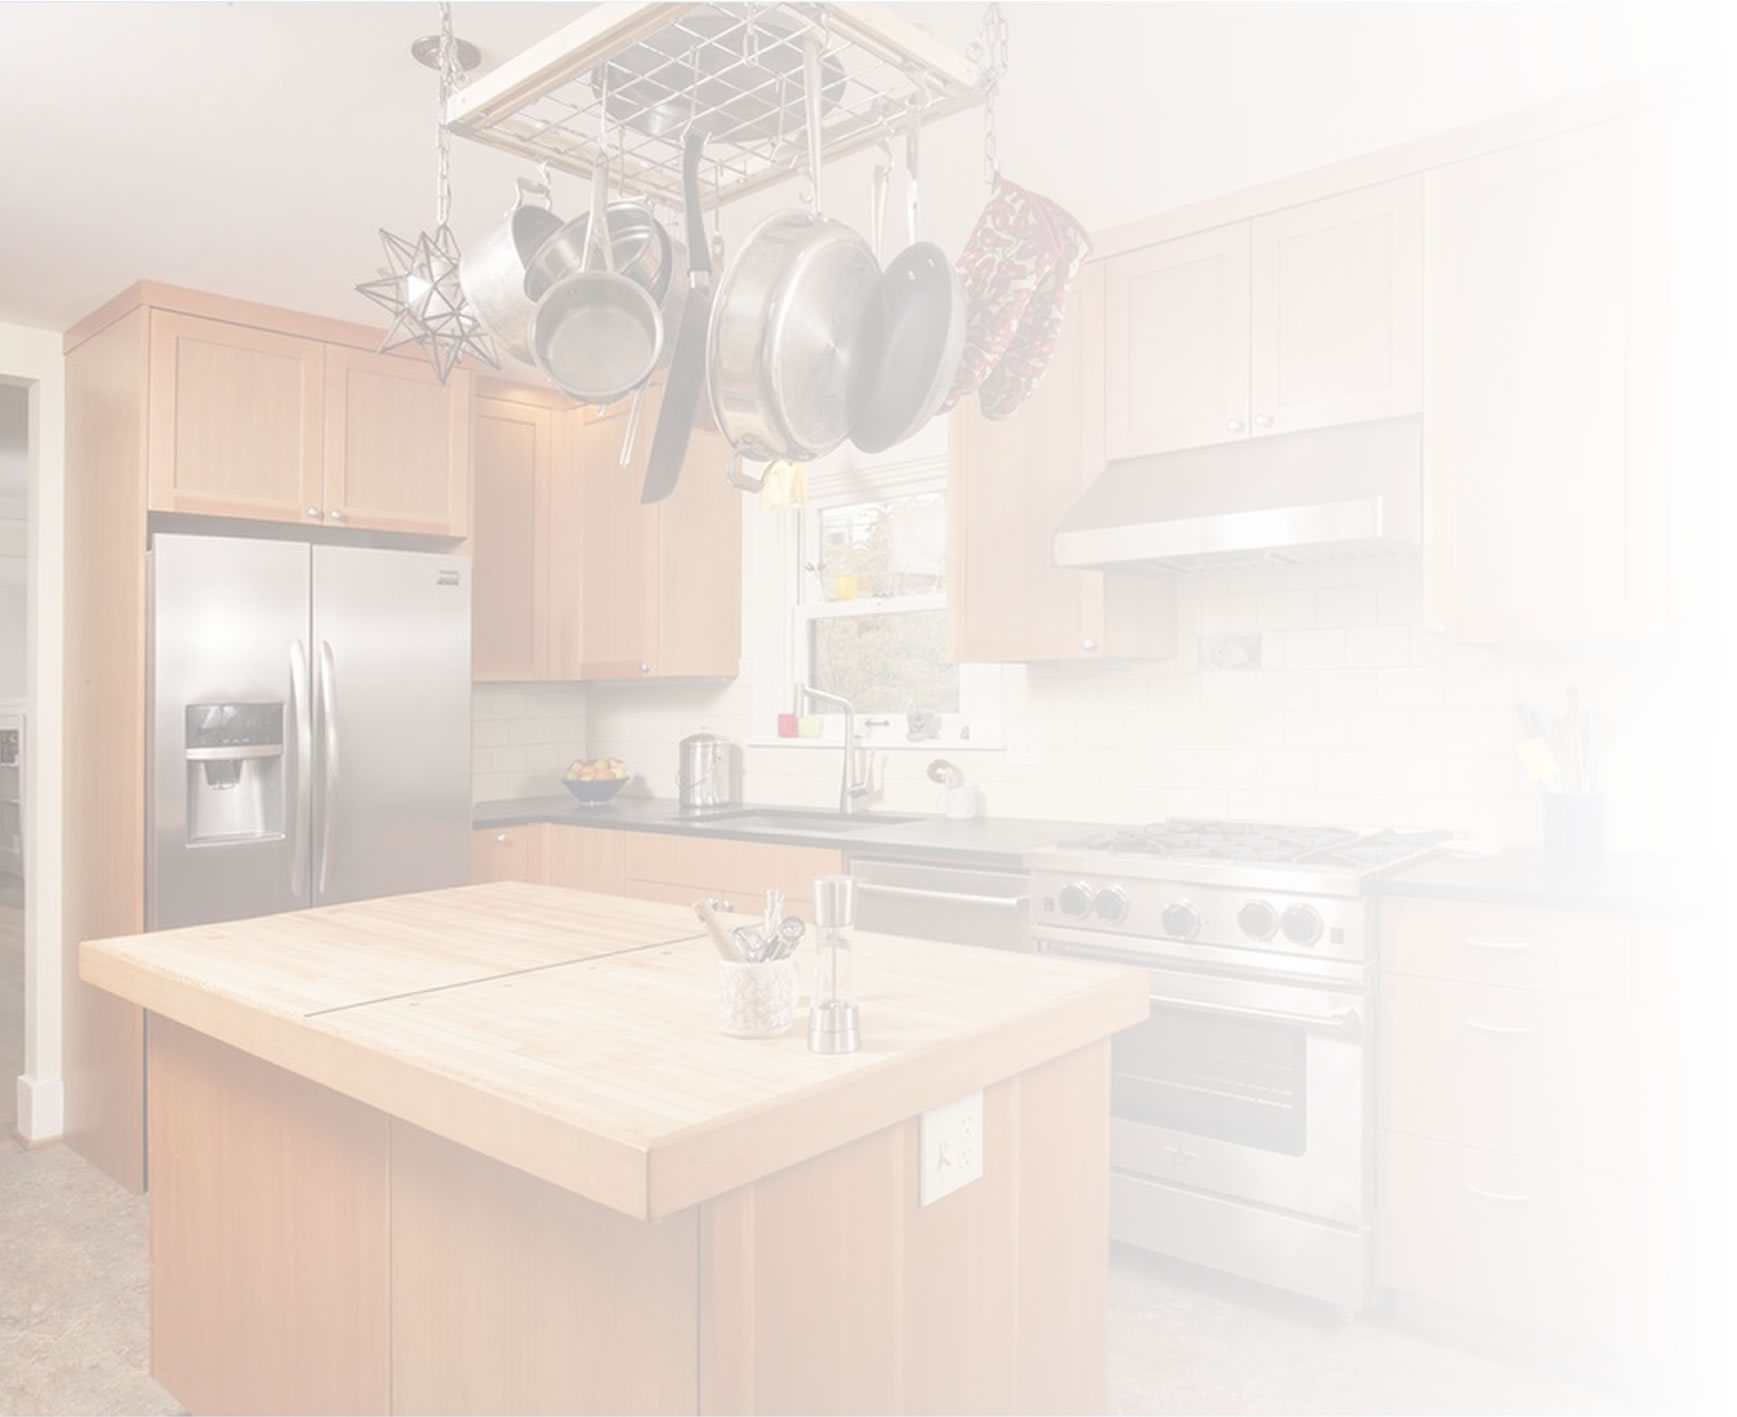
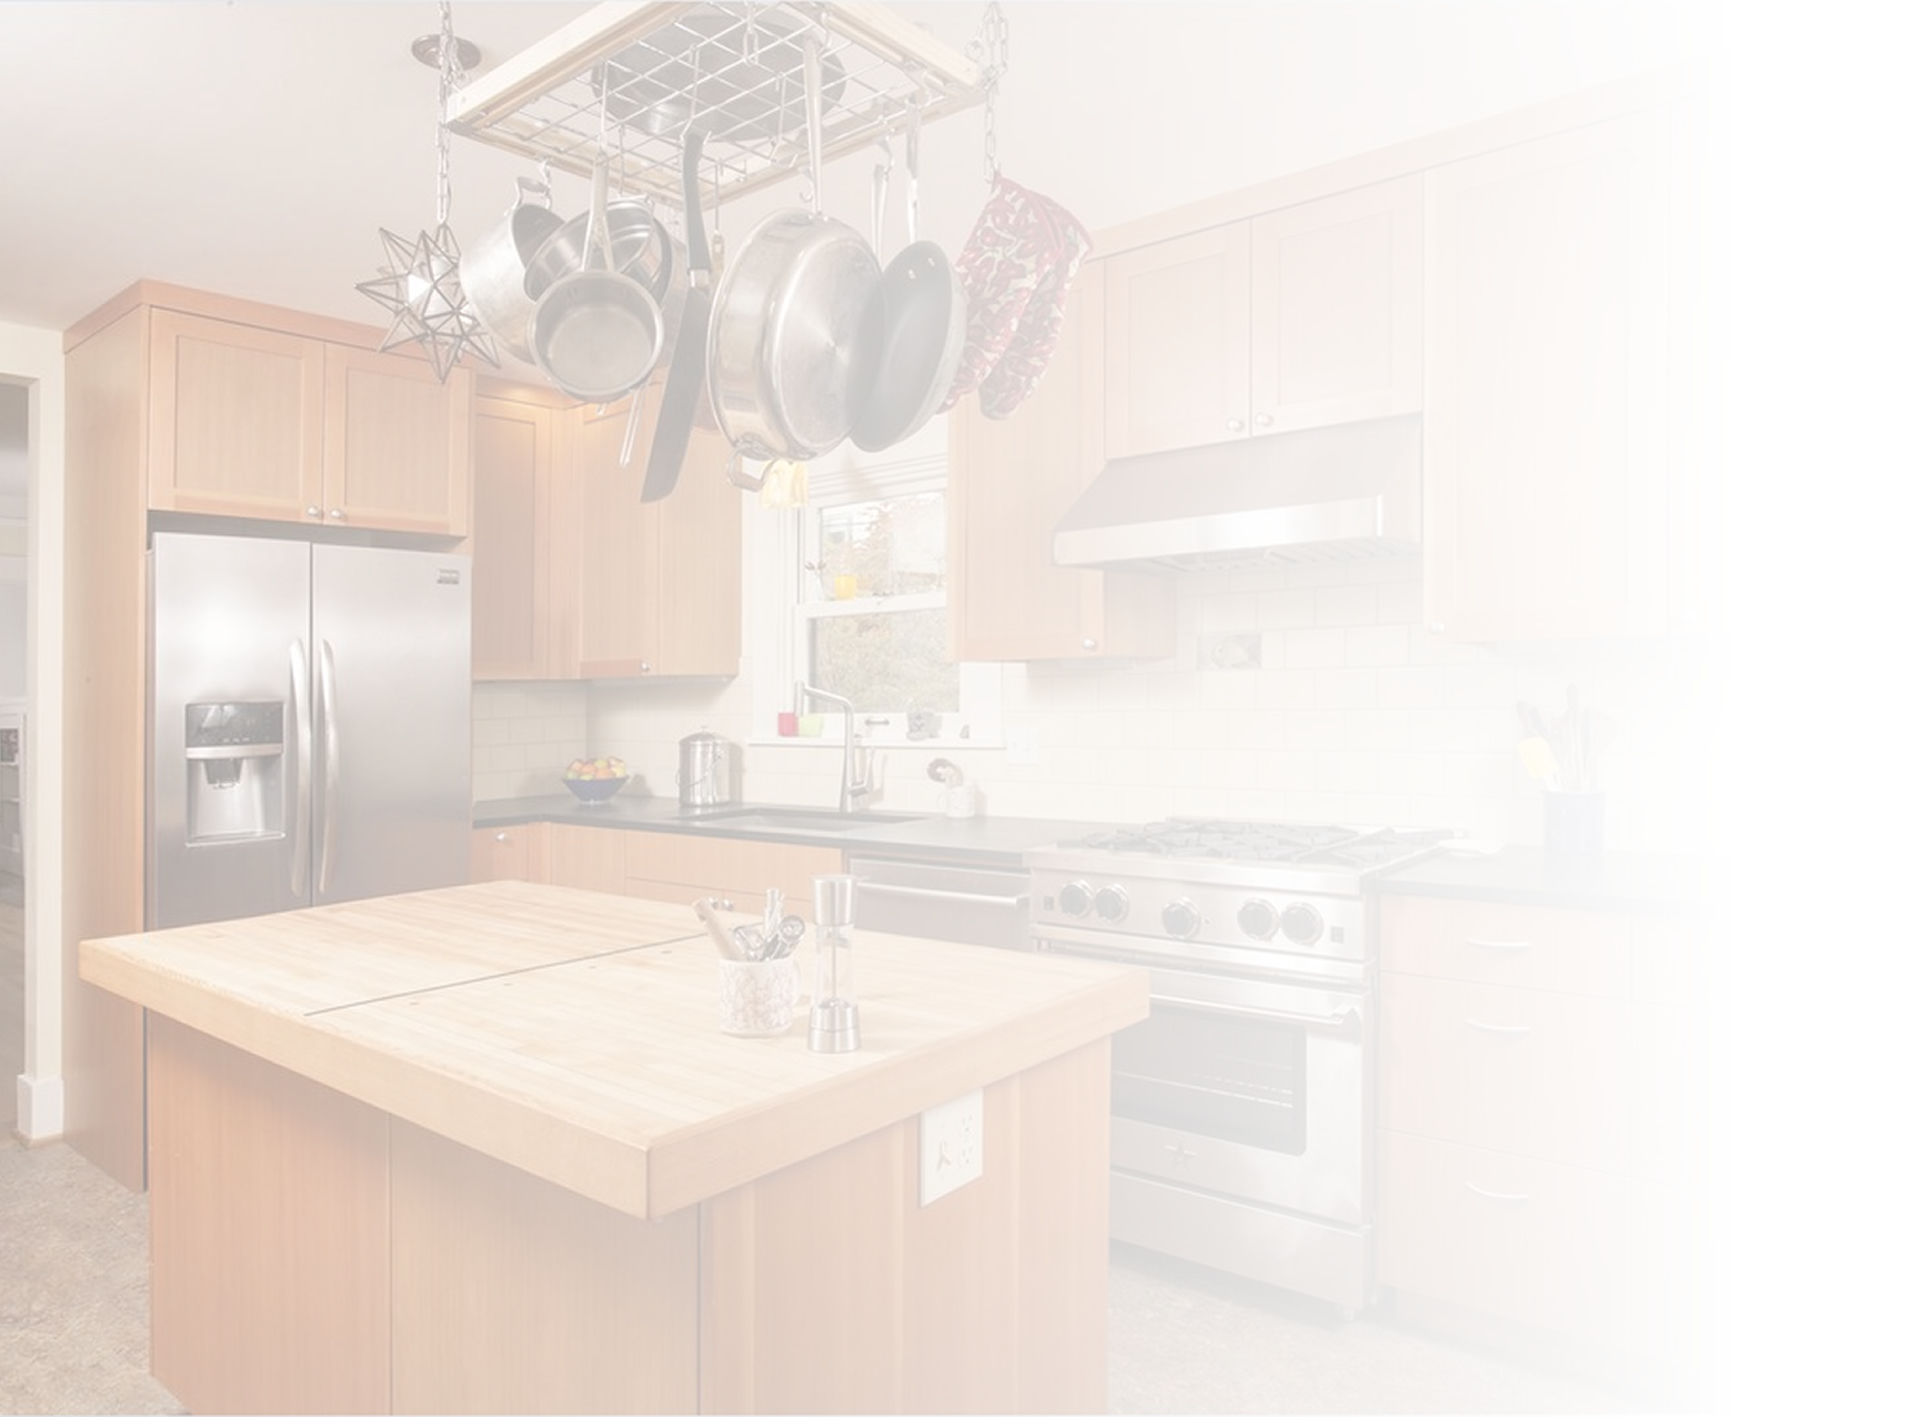
effects

diff --git a/public/styles/style.css b/public/styles/style.css
@@ -285,11 +285,7 @@ nav ul li a {
 
 /*-----------------------------------------------BANNER-----------------------------------------------*/
 #banner {
-  background: url("../images/content/banner.png");
-  /* background-attachment: fixed; */
-  background-position: top;
-  background-repeat: no-repeat;
-  /* background-size: cover; */
+  background: url("../images/content/banner.png") no-repeat top;
   object-fit: cover;
   height: 100%;
   width: 100%;
@@ -336,11 +332,12 @@ nav ul li a {
 /*-----------------------------------------------CONTENT-----------------------------------------------*/
 /*about*/
 #about {
-  background: url('../images/content/bg-about.jpg')no-repeat top left;
-  background-size: auto;
+  background: linear-gradient(to left, rgba(255, 255, 255, 1), rgba(0, 0, 0, 0)), url('../images/content/bg-about.jpg') no-repeat top left;
+  background-size: cover;
+  background-attachment: fixed;
   height: 100%;
-  margin-top: -115px;
-  min-height: 1343px;
+  margin-top: -131px;
+  min-height: 1314px;
 }
 
 #about .row {
@@ -348,8 +345,9 @@ nav ul li a {
   padding-right: 84px; */
 
   position: absolute;
-  right: 0;
-  transform: translate(-11%, 30%);
+  right: 4%;
+  top: 12%;
+  transform: translateY(50%);
 }
 
 #about .about-con {
@@ -381,12 +379,8 @@ nav ul li a {
 
 /*services*/
 #services {
-  background: url("../images/content/bg-services.png");
-  /* background-attachment: fixed; */
-  background-position: top;
-  background-repeat: no-repeat;
-  /* background-size: cover; */
-  object-fit: cover;
+  background: url("../images/content/bg-services.png")no-repeat top left;
+  background-size: cover;
   height: 100%;
   width: 100%;
   min-height: 2173px;
@@ -394,7 +388,7 @@ nav ul li a {
   display: flex;
   justify-content: center;
   align-items: center;
-  margin-top: -415px;
+  margin-top: -438px;
 }
 
 #services .foreword {
@@ -419,9 +413,8 @@ nav ul li a {
   width: 100%;
   height: 100%;
   max-width: 715px;
-  ;
   min-height: 571px;
-  border: 8px solid #fff;
+  border: 5px solid #fff;
   border-radius: 20px;
   justify-content: center;
   align-items: end;
@@ -490,6 +483,7 @@ nav ul li a {
 #reviews {
   background: url('../images/content/bg-reviews.jpg')no-repeat top left;
   background-size: cover;
+  background-attachment: fixed;
   width: 100%;
   height: 100%;
   min-height: 1441px;
@@ -557,8 +551,8 @@ nav ul li a {
 
 #reviews .btn-prev-slider,
 #reviews .btn-next-slider {
-  top: 51.5%;
-  transform: translate(0, 50%);
+  top: 59%;
+  transform: translate(0, 100%);
 }
 
 #reviews .btn-prev-slider {
@@ -586,7 +580,7 @@ nav ul li a {
   max-width: 502px;
   border-radius: 35px;
   min-height: 544px;
-  box-shadow: 1px 56px 53px -43px rgba(0, 0, 0, 0.8), 13px 6px 7px -6px rgba(0, 0, 0, 0.3);
+  box-shadow: 1px 56px 53px -43px rgba(0, 0, 0, 0.8), 4px 4px 8px rgba(0, 0, 0, .5);
 }
 
 #reviews .auth {
@@ -617,12 +611,8 @@ nav ul li a {
 /*gallery*/
 
 #gallery {
-  background: url("../images/content/bg-gallery.png");
-  /* background-attachment: fixed; */
-  background-position: top;
-  background-repeat: no-repeat;
-  /* background-size: cover; */
-  object-fit: cover;
+  background: url("../images/content/bg-gallery.png")no-repeat top left;
+  background-size: cover;
   height: 100%;
   width: 100%;
   min-height: 1651px;
@@ -674,8 +664,8 @@ nav ul li a {
 }
 
 #gallery .img-holder {
-  border: 20px solid #fff;
-  border-radius: 41px;
+  border: 11px solid #fff;
+  border-radius: 29px;
   background: #fff;
   margin-top: 56px;
   box-shadow: 0px 137px 67px -73px rgba(0, 0, 0, 0.48);
@@ -736,13 +726,16 @@ nav ul li a {
 /*CONTACT*/
 #contact {
   position: relative;
+  width: 100%;
+  max-width: 750px;
+  margin-right: -85px;
+  margin-top: -62px;
 }
 
 #contact .box {
   background: #F58900;
-  width: 100%;
-  max-width: 759px;
-  padding-top: 50px;
+  padding: 50px;
+  border-radius: 35px;
 }
 
 #contact .contact-con {
@@ -754,7 +747,8 @@ nav ul li a {
 #contact .contact-con .foreword {
   color: #fff;
   font-family: 'Montserrat', sans-serif;
-  font-weight: 500;
+  font-weight: 700;
+  font-size: 20px;
 }
 
 #contact .contact-con .contact-title {
@@ -763,6 +757,7 @@ nav ul li a {
   letter-spacing: 2px;
   line-height: 1.5;
   color: #fff;
+  margin: 12px 0 51px;
 }
 
 
@@ -807,21 +802,27 @@ form .alert-danger {
   font-family: 'Montserrat', sans-serif;
   font-size: 16px;
   color: #000;
-  height: 45px;
+  height: 69px;
   display: block;
   width: 100%;
-  border: 1px solid #A8A8A8;
-  padding: 5px 10px;
+  border: none;
+  border-radius: 8px;
+  padding: 5px 22px;
   box-sizing: border-box;
-  margin: 0 auto 8px;
+  margin: 0 auto 33px;
   resize: none;
-  background: #EEEEEE;
+  background: #fff;
+}
+
+.ctc-form .flex label {
+  width: 100%;
+  max-width: 282px;
 }
 
 .ctc-form ::placeholder,
 .ctc-form label {
   font-family: 'Montserrat', sans-serif;
-  font-size: 15px;
+  font-size: 18px;
   color: #fff;
   line-height: 1.8;
   letter-spacing: .03px;
@@ -833,14 +834,19 @@ form .alert-danger {
 }
 
 .ctc-form textarea {
-  height: 150px;
+  height: 205px;
   padding-top: 10px;
 }
 
 .ctc-form button {
   display: block;
   border: none;
-  margin: 20px auto 0
+  background: linear-gradient(to bottom, #ffffff, #BBBBBB);
+  margin-top: 62px;
+  color: #000;
+  font-size: 20px;
+  width: 285px;
+  padding: 18px 0;
 }
 
 .ctc-form .recap {
@@ -864,6 +870,10 @@ form .alert-danger {
   margin-top: 115px;
 }
 
+#footer .footer-con {
+  align-items: end;
+}
+
 #footer .left {
   width: 100%;
   max-width: 833px;
@@ -871,6 +881,7 @@ form .alert-danger {
 
 #footer .logo img {
   max-width: 646px;
+  margin-bottom: 12px;
 }
 
 #footer .left .box {
@@ -895,7 +906,7 @@ form .alert-danger {
 }
 
 #footer .title {
-  font-family: Arial, sans-serif;
+  font-family: 'Arial', sans-serif;
   font-size: 18px;
   letter-spacing: 2px;
   color: #F58900;
@@ -954,6 +965,7 @@ form .alert-danger {
 #footer nav {
   width: 100%;
   max-width: 647px;
+  margin-top: 10px;
 }
 
 #footer ul {
@@ -969,7 +981,8 @@ form .alert-danger {
   box-sizing: border-box;
 }
 
-#footer nav ul li a:hover {
+#footer nav ul li a:hover,
+#header nav ul li.active-menu {
   font-weight: 700;
 }
 
@@ -980,8 +993,16 @@ form .alert-danger {
 }
 
 #footer .copyrights {
-  background: #3D3330;
-  padding: 20px 0
+  padding-top: 77px;
+  padding-bottom: 20px;
+  color: #B8B8B8;
+}
+
+#footer .copyrights .copy {
+  font-family: 'Montserrat', sans-serif;
+  font-size: 18px;
+  letter-spacing: 0.5px;
+
 }
 
 .techno img {

diff --git a/app/view/template/footer.php b/app/view/template/footer.php
@@ -64,8 +64,7 @@
 							<nav>
 								<ul>
 									<li <?php $this->helpers->isActiveMenu("home"); ?>><a
-											href="<?php echo URL ?>">Home</a>
-									</li>
+											href="<?php echo URL ?>">Home</a></li>
 									<li <?php $this->helpers->isActiveMenu("about"); ?>><a
 											href="<?php echo URL ?>about#content">About Us</a></li>
 									<li <?php $this->helpers->isActiveMenu("services"); ?>><a
@@ -110,9 +109,9 @@
 							<label><span class="ctc-hide">Message</span>
 								<textarea name="message" cols="30" rows="10" placeholder="MESSAGE"></textarea>
 							</label>
-
+							<!-- 
 							<label for="g-recaptcha-response"><span class="ctc-hide">Recaptcha</span></label>
-							<div class="g-recaptcha"></div>
+							<div class="g-recaptcha"></div> -->
 
 							<button type="submit" class="ctcBtn btn" disabled>Submit Form</button>
 						</form>
@@ -120,24 +119,25 @@
 				</div>
 			</div>
 		</div>
+		<div class="copyrights">
+			<p class="copy">
+				Copyright
+				<?php echo date("Y"); ?>.
+				<?php $this->info("company_name"); ?> All Rights Reserved.
+			</p>
+			<p class="techno">
+				<img class="lazy loaded" src="public/images/hd-logo.png" alt=""><a
+					href="http://technodreamoutsourcing.com/">Web Design</a> Done by <a
+					href="http://technodreamoutsourcing.com/"> TechnoDream LLC</a>
+			</p>
+		</div>
 	</div>
 
 
 
 
-	<div class="copyrights">
-		<p class="copy">
-			©
-			<?php echo date("Y"); ?>.
-			<?php $this->info("company_name"); ?> All Rights Reserved.
-		</p>
-		<p class="techno">
-			<img class="lazy loaded" src="public/images/hd-logo.png" alt=""><a
-				href="http://technodreamoutsourcing.com/">Web Design</a> Done by <a
-				href="http://technodreamoutsourcing.com/"> TechnoDream LLC</a>
-		</p>
-	</div>
-	</div>
+
+
 </footer>
 
 <script src="//ajax.googleapis.com/ajax/libs/jquery/1.12.4/jquery.min.js"></script>
